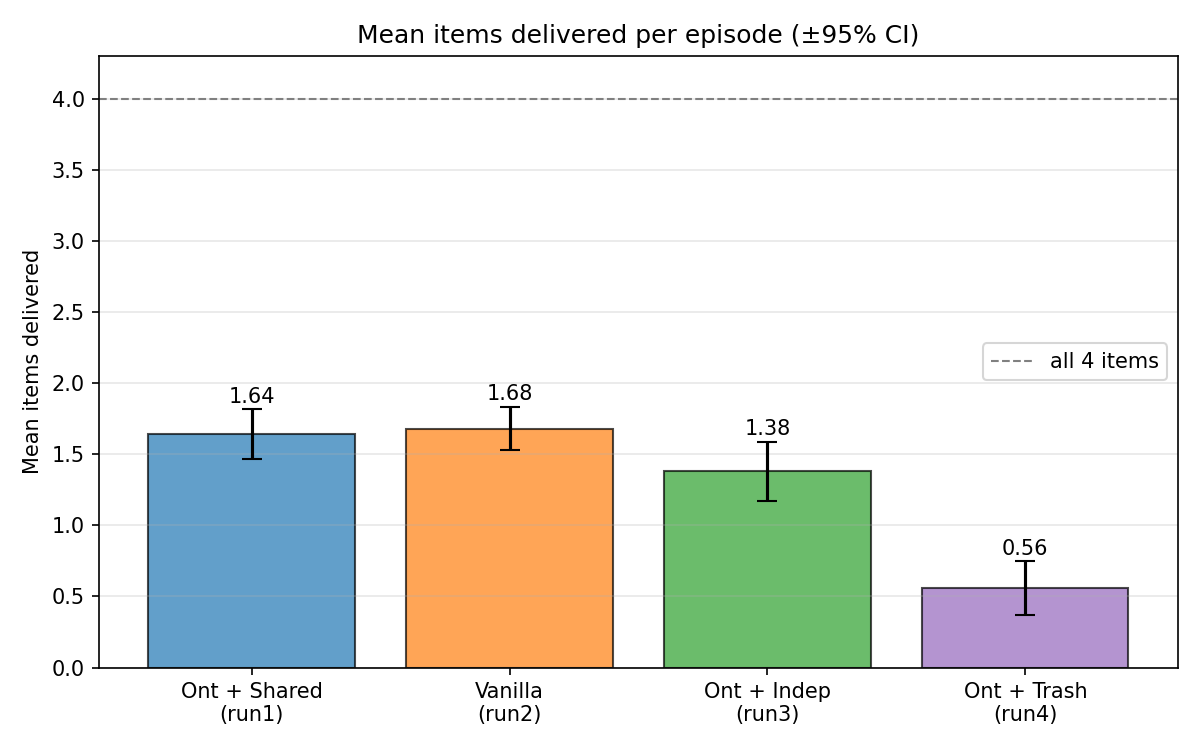
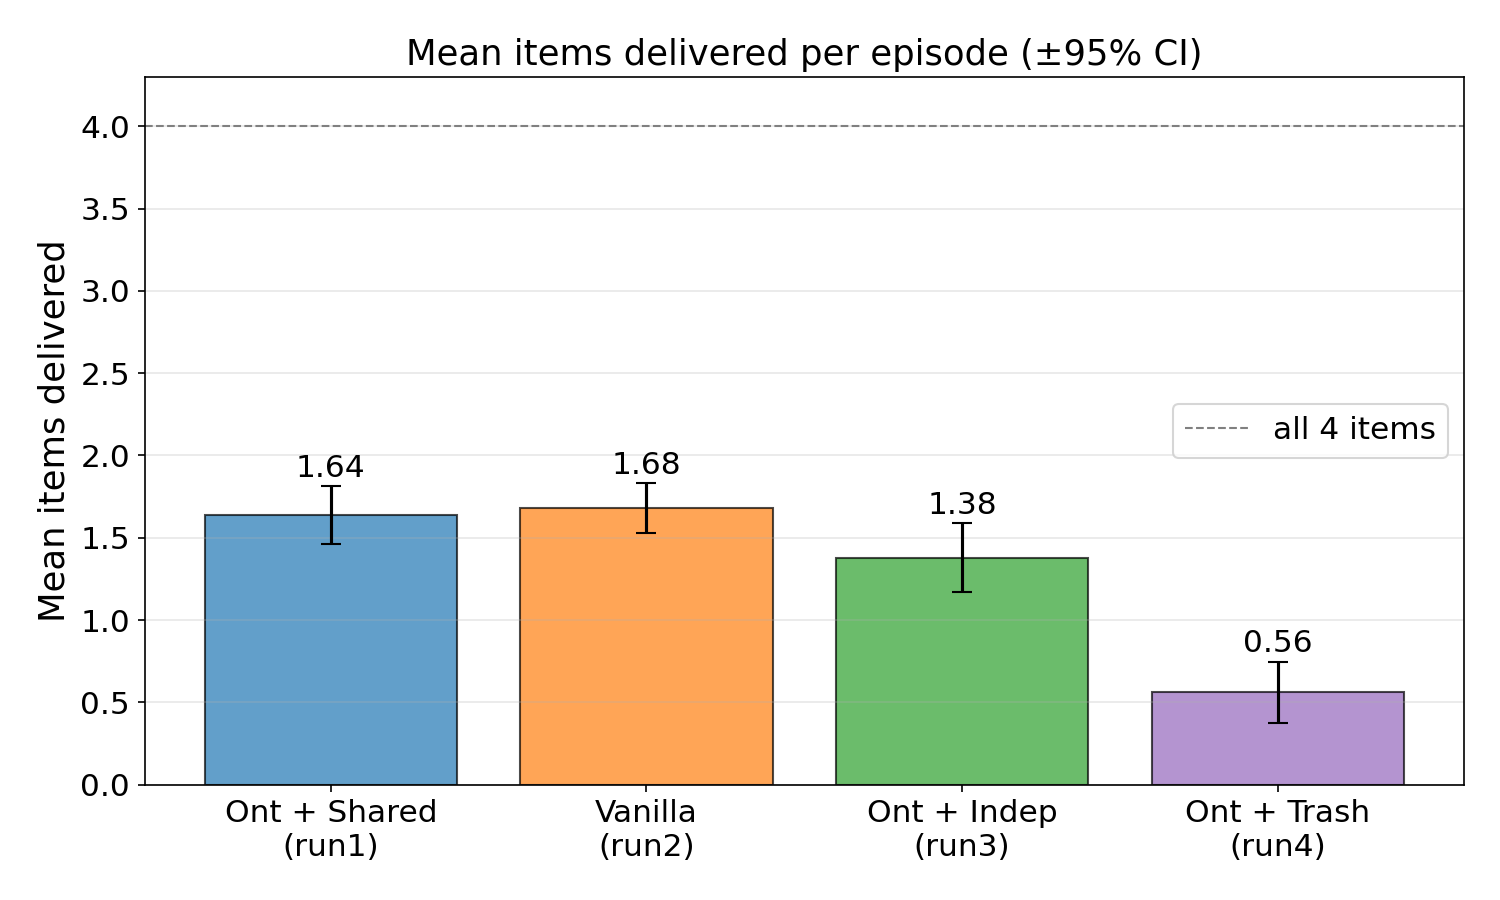
Bigger fonts in plot scripts; regenerate eval graphs from new results
Add a font-size rcParams bump (and widen eval figures) to analyze_eval.py
and plot_results.py for legible thesis figures. Regenerate eval_reward_box
and eval_delivery_bar plus eval_significance.txt from the new per-agent-ABox
evaluation. Training-curve figures must be re-run on the VM where the
training_log.csv files live.

diff --git a/train_scripts/plot_results.py b/train_scripts/plot_results.py
@@ -27,6 +27,16 @@ import matplotlib.pyplot as plt
 import matplotlib.ticker as mtick
 from matplotlib.patches import Patch
 
+# Larger fonts for thesis figures (legible at print size).
+plt.rcParams.update({
+    "font.size":        16,
+    "axes.titlesize":   17,
+    "axes.labelsize":   17,
+    "xtick.labelsize":  15,
+    "ytick.labelsize":  15,
+    "legend.fontsize":  13,
+})
+
 # Run definitions: must match run_experiments.sh
 RUNS_META = [
     dict(name="run1_ont_food_prox5",  label="Ont + Shared (run1)",  color="#1f77b4", ls="-",   goal="collect_food"),
@@ -96,7 +106,7 @@ def _apply_defaults(ax: plt.Axes, title: str, xlabel: str, ylabel: str,
     ax.set_title(title)
     ax.set_xlabel(xlabel)
     ax.set_ylabel(ylabel)
-    ax.legend(fontsize=8)
+    ax.legend(fontsize=12)
     ax.grid(True, alpha=0.3)
     if pct_y:
         ax.yaxis.set_major_formatter(mtick.PercentFormatter(xmax=1))
@@ -179,7 +189,7 @@ def fig_stage_progression(run_data: list[dict], out_dir: Path) -> None:
     ax.set_xlabel("Environment steps (M)")
     ax.set_title("Curriculum stage progression")
     ax.legend(handles=[Patch(facecolor=stage_colors[i], label=stage_labels[i])
-                        for i in range(4)], loc="lower right", fontsize=8)
+                        for i in range(4)], loc="lower right", fontsize=12)
     ax.grid(True, axis="x", alpha=0.3)
     fig.tight_layout()
     _save(fig, out_dir, "stage_progression")
@@ -201,7 +211,7 @@ def fig_overview_combined(run_data: list[dict], out_dir: Path, win: int) -> None
                   label=m["label"], color=m["color"], linestyle=m["ls"], lw=1.8)
     ax_r.set_title("Training overview: all runs")
     ax_r.set_ylabel(f"Avg-50 reward\n(smoothed, win={win})")
-    ax_r.legend(fontsize=8, ncol=2)
+    ax_r.legend(fontsize=12, ncol=2)
     ax_r.grid(True, alpha=0.3)
 
     # Panel 2: delivery fraction (each run uses its own goal's stage map)
@@ -242,7 +252,7 @@ def fig_overview_combined(run_data: list[dict], out_dir: Path, win: int) -> None
     ax_s.set_ylabel("Curriculum\nstage")
     ax_s.set_xlabel("Environment steps (M)")
     ax_s.legend(handles=[Patch(facecolor=stage_colors[i], label=stage_labels[i])
-                         for i in range(4)], loc="lower right", fontsize=8, ncol=2)
+                         for i in range(4)], loc="lower right", fontsize=12, ncol=2)
     ax_s.grid(True, axis="x", alpha=0.3)
 
     _save(fig, out_dir, "overview_combined")
@@ -320,7 +330,7 @@ def fig_sq5(run_data: list[dict], out_dir: Path, win: int) -> None:
                     "Delivered / active items", pct_y=True)
     axes[1].annotate("Note: tasks differ\n(food vs trash)",
                      xy=(0.02, 0.95), xycoords="axes fraction",
-                     fontsize=8, va="top", color="grey")
+                     fontsize=12, va="top", color="grey")
     fig.suptitle("SQ5: Framework Generalisation, Food vs Trash",
                  fontweight="bold")
     fig.tight_layout()

diff --git a/train_scripts/analyze_eval.py b/train_scripts/analyze_eval.py
@@ -31,6 +31,16 @@ matplotlib.use("Agg")
 import matplotlib.pyplot as plt
 from scipy import stats
 
+# Larger fonts for thesis figures (legible at print size).
+plt.rcParams.update({
+    "font.size":        16,
+    "axes.titlesize":   17,
+    "axes.labelsize":   17,
+    "xtick.labelsize":  15,
+    "ytick.labelsize":  15,
+    "legend.fontsize":  15,
+})
+
 # Run definitions (colours/labels match plot_results.py)
 RUNS_META = [
     dict(name="run1_ont_food_prox5", label="Ont + Shared\n(run1)",  short="run1", color="#1f77b4"),
@@ -131,7 +141,7 @@ def main():
     colors = [data[n]["color"] for n in order]
     labels = [data[n]["label"] for n in order]
 
-    fig, ax = plt.subplots(figsize=(8, 5))
+    fig, ax = plt.subplots(figsize=(10, 6))
     bp = ax.boxplot(rewards, patch_artist=True, widths=0.55, showmeans=True,
                     meanprops=dict(marker="D", markerfacecolor="white",
                                    markeredgecolor="black", markersize=6))
@@ -147,7 +157,7 @@ def main():
     ax.set_xticks(range(1, len(order) + 1))
     ax.set_xticklabels(labels)
     ax.set_ylabel("Episode reward")
-    ax.set_title("Evaluation reward over 50 stochastic episodes (Stage 2, 4 items)")
+    ax.set_title("Evaluation reward over 50 stochastic episodes\n(Stage 2, 4 items)")
     ax.grid(axis="y", alpha=0.3)
     fig.tight_layout()
     for ext in ("pdf", "png"):
@@ -155,7 +165,7 @@ def main():
     plt.close(fig)
 
     # Figure 2: mean items delivered (bar + 95% CI)
-    fig, ax = plt.subplots(figsize=(8, 5))
+    fig, ax = plt.subplots(figsize=(10, 6))
     means = [data[n]["delivered"].mean() for n in order]
     cis = []
     for n in order:
@@ -166,7 +176,7 @@ def main():
                   color=colors, alpha=0.7, edgecolor="black")
     for i, n in enumerate(order):
         ax.text(i, means[i] + cis[i] + 0.02, f"{means[i]:.2f}",
-                ha="center", va="bottom", fontsize=10)
+                ha="center", va="bottom", fontsize=15)
     n_items = data[order[0]]["n_items"]
     ax.axhline(n_items, ls="--", color="gray", lw=1, label=f"all {n_items} items")
     ax.set_xticks(range(len(order)))